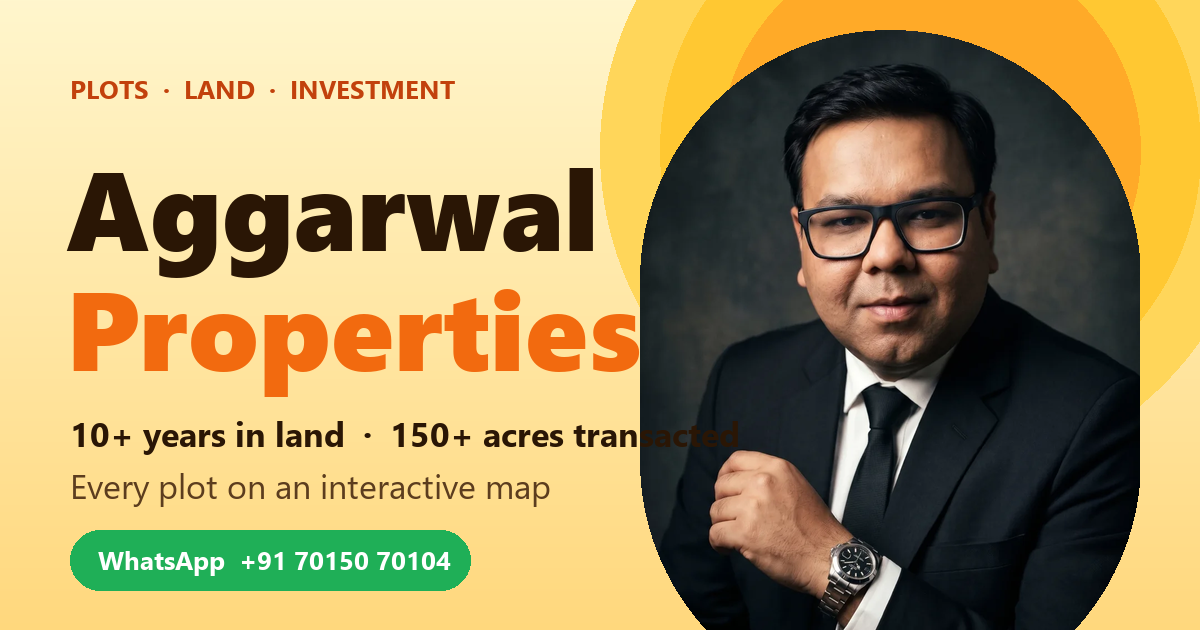
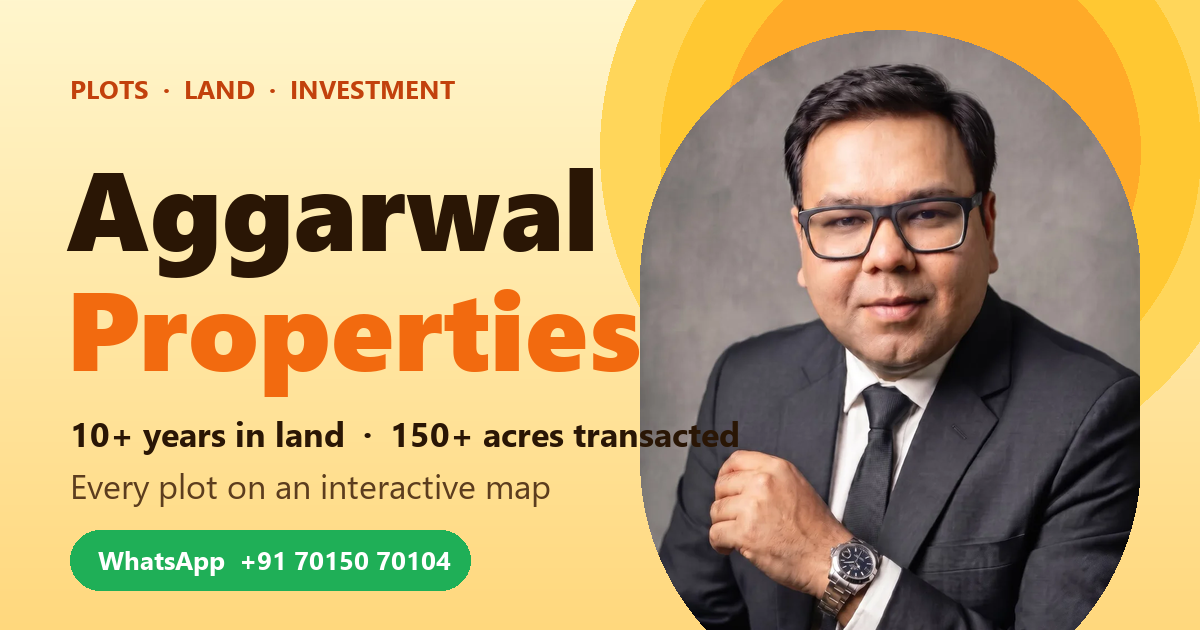
Use the new founder photo and stop the portrait stretching
The portrait kept its 1080px height attribute on narrow screens, so it
rendered as a tall strip; height is now auto so the 5:6 frame applies.
The photo files are renamed so browsers do not show the cached old one,
and the share image is rebuilt from the new photo.

Changed region(s): [[0.5242, 0.0302, 0.9558, 1.0]]

diff --git a/assets/css/site.css b/assets/css/site.css
@@ -256,7 +256,7 @@ button { font: inherit; color: inherit; cursor: pointer; }
   background: radial-gradient(circle at 36% 34%, #FFF1A8, var(--sun-400) 45%, var(--orange-500));
   box-shadow: 0 0 0 22px rgba(255, 194, 26, .2); z-index: 0;
 }
-.portrait img { position: relative; z-index: 1; width: 100%; aspect-ratio: 5 / 6; object-fit: cover; object-position: 50% 0; border-radius: 220px 220px var(--radius) var(--radius); box-shadow: var(--shadow); }
+.portrait img { position: relative; z-index: 1; width: 100%; height: auto; aspect-ratio: 5 / 6; object-fit: cover; object-position: 50% 0; border-radius: 220px 220px var(--radius) var(--radius); box-shadow: var(--shadow); }
 .portrait-tag {
   position: absolute; z-index: 2; left: -14px; bottom: 28px; background: #fff; border-radius: 18px; padding: 14px 18px;
   box-shadow: var(--shadow); font-size: 14px; color: var(--ink-2); line-height: 1.3;

diff --git a/index.html b/index.html
@@ -127,7 +127,7 @@
 <section class="section">
   <div class="wrap founder">
     <div class="portrait reveal">
-      <img src="assets/img/founder.webp" srcset="assets/img/founder-480.webp 480w, assets/img/founder.webp 900w" sizes="(max-width: 860px) 86vw, 440px" width="900" height="1080" alt="Aman Goel, founder of Aggarwal Properties" loading="lazy">
+      <img src="assets/img/aman-goel.webp" srcset="assets/img/aman-goel-480.webp 480w, assets/img/aman-goel.webp 900w" sizes="(max-width: 860px) 86vw, 440px" width="900" height="1080" alt="Aman Goel, founder of Aggarwal Properties" loading="lazy">
       <div class="portrait-tag"><b>Aman Goel</b>Founder, Aggarwal Properties</div>
     </div>
     <div class="reveal">

diff --git a/about.html b/about.html
@@ -75,7 +75,7 @@
 <section class="section band-cream" id="founder">
   <div class="wrap founder">
     <div class="portrait reveal">
-      <img src="assets/img/founder.webp" srcset="assets/img/founder-480.webp 480w, assets/img/founder.webp 900w" sizes="(max-width: 860px) 86vw, 440px" width="900" height="1080" alt="Aman Goel, founder of Aggarwal Properties">
+      <img src="assets/img/aman-goel.webp" srcset="assets/img/aman-goel-480.webp 480w, assets/img/aman-goel.webp 900w" sizes="(max-width: 860px) 86vw, 440px" width="900" height="1080" alt="Aman Goel, founder of Aggarwal Properties">
       <div class="portrait-tag"><b>Aman Goel</b>Founder, Aggarwal Properties</div>
     </div>
     <div class="reveal">
